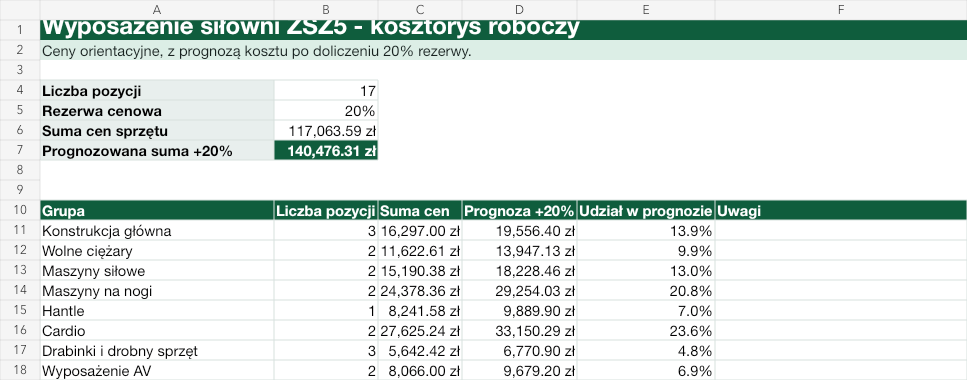
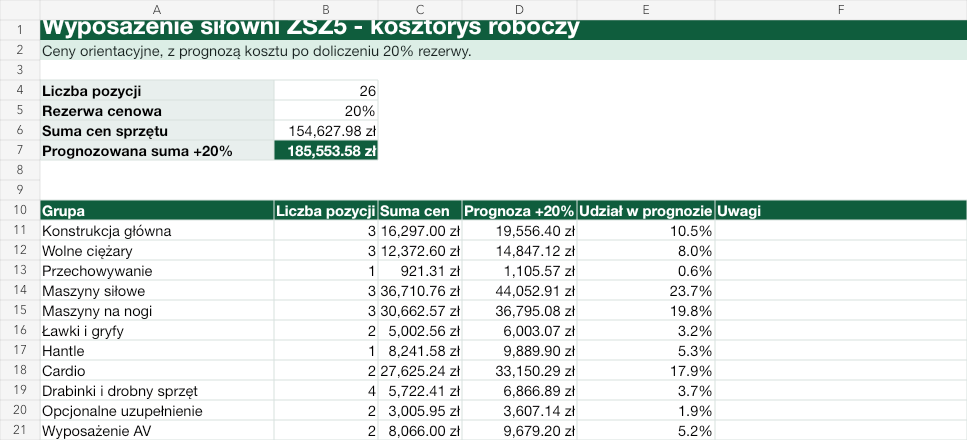
Add gym accessories and expand rehab equipment

Changed region(s): [[0.0, 0.0289, 1.0, 1.0], [0.6825, 0.6947, 0.7446, 1.0]]

diff --git a/script.js b/script.js
@@ -48,12 +48,34 @@ const equipment = [
     category: "silownia",
     section: "Siłownia",
     group: "Wolne ciężary",
+    name: "Obciążenie olimpijskie Fractional Competition PROUD 0,5-2,5 kg",
+    quantity: "1 zestaw",
+    priceRaw: 749.99,
+    source: "Training Showroom",
+    url: "https://trainingshowroom.com/talerze/2335-zestaw-obciazen-olimpijskich-proud-competition-fractional-plate.html",
+    image: "assets/images/gym-pro/gym-fractional-plates.jpg",
+  },
+  {
+    category: "silownia",
+    section: "Siłownia",
+    group: "Wolne ciężary",
     name: "Osłona na gryf PROUD Barbell Pad",
     quantity: "1",
     priceRaw: 62.61,
     source: "Training Showroom",
     url: "https://trainingshowroom.com/akcesoria/2488-ochraniacz-na-gryf-proud-barbell-pad.html",
     image: "assets/images/gym-pro/gym-bar-pad.jpg",
+  },
+  {
+    category: "silownia",
+    section: "Siłownia",
+    group: "Przechowywanie",
+    name: "Stojak na obciążenia i gryfy olimpijskie PROUD",
+    quantity: "1",
+    priceRaw: 921.31,
+    source: "Training Showroom",
+    url: "https://trainingshowroom.com/outlet/2373-stojak-na-obciazenia-i-gryfy-olimpijskie-proud.html",
+    image: "assets/images/gym-pro/gym-plate-bar-rack.jpg",
   },
   {
     category: "silownia",
@@ -80,6 +102,17 @@ const equipment = [
   {
     category: "silownia",
     section: "Siłownia",
+    group: "Maszyny siłowe",
+    name: "Wyciąg regulowany Dual Pulley PROUD Champion",
+    quantity: "1",
+    priceRaw: 21520.38,
+    source: "Training Showroom, do potwierdzenia pod kątem miejsca w sali",
+    url: "https://trainingshowroom.com/maszyny-silowe/2906-wyciag-regulowany-dual-pulley-proud-champion.html",
+    image: "assets/images/gym-pro/gym-dual-pulley.jpg",
+  },
+  {
+    category: "silownia",
+    section: "Siłownia",
     group: "Maszyny na nogi",
     name: "Maszyna do przysiadów Hack PROUD Champion",
     quantity: "1",
@@ -98,6 +131,39 @@ const equipment = [
     source: "Training Showroom",
     url: "https://trainingshowroom.com/maszyny-na-wolny-ciezar/3404-maszyna-seated-leg-extension-plate-loaded-proud-champion.html",
     image: "assets/images/gym-pro/gym-leg-extension.png",
+  },
+  {
+    category: "silownia",
+    section: "Siłownia",
+    group: "Maszyny na nogi",
+    name: "Maszyna do treningu łydek PROUD Champion",
+    quantity: "1",
+    priceRaw: 6284.21,
+    source: "Training Showroom",
+    url: "https://trainingshowroom.com/maszyny-silowe/2938-maszyna-do-lydek-proud-champion.html",
+    image: "assets/images/gym-pro/gym-calf-machine.jpg",
+  },
+  {
+    category: "silownia",
+    section: "Siłownia",
+    group: "Ławki i gryfy",
+    name: "Modlitewnik PROUD Champion",
+    quantity: "1",
+    priceRaw: 4502.57,
+    source: "Training Showroom",
+    url: "https://trainingshowroom.com/champion/2970-modlitewnik-proud-champion.html?search_query=Modlitewnik",
+    image: "assets/images/gym-pro/gym-preacher-curl.jpg",
+  },
+  {
+    category: "silownia",
+    section: "Siłownia",
+    group: "Ławki i gryfy",
+    name: "Gryf olimpijski treningowy łamany Curl Silver PROUD",
+    quantity: "1",
+    priceRaw: 499.99,
+    source: "Training Showroom",
+    url: "https://trainingshowroom.com/sztangi/2596-gryf-olimpijski-treningowy-lamany-silver-proud.html",
+    image: "assets/images/gym-pro/gym-ez-bar.jpg",
   },
   {
     category: "silownia",
@@ -173,6 +239,40 @@ const equipment = [
   {
     category: "silownia",
     section: "Siłownia",
+    group: "Drabinki i drobny sprzęt",
+    name: "Podkładki do przysiadów PROUD",
+    quantity: "1 komplet",
+    priceRaw: 79.99,
+    source: "Training Showroom",
+    url: "https://trainingshowroom.com/gumy-i-rollery/3356-podkladki-do-przysiadow-proud.html",
+    image: "assets/images/gym-pro/gym-squat-wedges.jpg",
+  },
+  {
+    category: "silownia",
+    section: "Siłownia",
+    group: "Opcjonalne uzupełnienie",
+    name: "Kettlebell żeliwny PRO, zestaw PROUD",
+    quantity: "1 zestaw",
+    priceRaw: 2625.99,
+    source: "Training Showroom, opcjonalnie",
+    url: "https://trainingshowroom.com/hantle-i-kettlebells/3465-hantla-proud-kettlebell-zestaw.html",
+    image: "assets/images/gym-pro/gym-kettlebell-set.jpg",
+  },
+  {
+    category: "silownia",
+    section: "Siłownia",
+    group: "Opcjonalne uzupełnienie",
+    name: "Podłoga gumowa Standard PROUD pod kettlebell",
+    quantity: "4 szt.",
+    priceRaw: 379.96,
+    unitNote: "94,99 zł za szt.",
+    source: "Training Showroom, opcjonalnie",
+    url: "https://trainingshowroom.com/podlogi/3427-podloga-gumowa-standard-proud.html",
+    image: "assets/images/gym-pro/gym-rubber-tile.jpg",
+  },
+  {
+    category: "silownia",
+    section: "Siłownia",
     group: "Wyposażenie AV",
     name: "Projektor Full HD Epson EB-FH52",
     quantity: "1",
@@ -197,8 +297,8 @@ const equipment = [
     section: "Sala korekcyjna",
     group: "Maty i materace",
     name: "Materace",
-    quantity: "16",
-    priceRaw: 3200,
+    quantity: "20",
+    priceRaw: 4000,
     source: "SportPlus",
     url: "https://sportplus.pl",
     image: "assets/images/equipment/exercise-mat.jpg",
@@ -230,8 +330,8 @@ const equipment = [
     section: "Sala korekcyjna",
     group: "Piłki i równowaga",
     name: "Piłki rehabilitacyjne",
-    quantity: "12",
-    priceRaw: 900,
+    quantity: "20",
+    priceRaw: 1500,
     source: "HMS",
     url: "https://hms-fitness.pl/produkt/yb01-new-65cm-pilka-gimnastyczna-hms",
     image: "assets/images/equipment/therapy-ball.jpg",
@@ -252,8 +352,8 @@ const equipment = [
     section: "Sala korekcyjna",
     group: "Rollery i sensoryka",
     name: "Rollery",
-    quantity: "10",
-    priceRaw: 700,
+    quantity: "20",
+    priceRaw: 1400,
     source: "4FIZJO",
     url: "https://4fizjo.pl",
     image: "assets/images/equipment/roller.webp",
@@ -263,8 +363,8 @@ const equipment = [
     section: "Sala korekcyjna",
     group: "Rollery i sensoryka",
     name: "Wałki rehabilitacyjne",
-    quantity: "8",
-    priceRaw: 800,
+    quantity: "20",
+    priceRaw: 2000,
     source: "Dostawca do wyboru",
     url: "",
     image: "assets/images/equipment/rehab-roller.webp",
@@ -274,8 +374,8 @@ const equipment = [
     section: "Sala korekcyjna",
     group: "Rollery i sensoryka",
     name: "Dyski sensoryczne",
-    quantity: "10",
-    priceRaw: 700,
+    quantity: "20",
+    priceRaw: 1400,
     source: "Dostawca do wyboru",
     url: "",
     image: "assets/images/equipment/sensory-disc.webp",
@@ -296,8 +396,8 @@ const equipment = [
     section: "Sala korekcyjna",
     group: "Drobny sprzęt korekcyjny",
     name: "Laski gimnastyczne",
-    quantity: "15",
-    priceRaw: 500,
+    quantity: "20",
+    priceRaw: 700,
     source: "Dostawca do wyboru",
     url: "",
     image: "assets/images/equipment/gym-stick.webp",
@@ -318,8 +418,8 @@ const equipment = [
     section: "Sala korekcyjna",
     group: "Drobny sprzęt korekcyjny",
     name: "Pasy do rozciągania",
-    quantity: "15",
-    priceRaw: 600,
+    quantity: "20",
+    priceRaw: 800,
     source: "Dostawca do wyboru",
     url: "",
     image: "assets/images/equipment/stretch-strap.png",
@@ -329,8 +429,8 @@ const equipment = [
     section: "Sala korekcyjna",
     group: "Drobny sprzęt korekcyjny",
     name: "Stepy",
-    quantity: "10",
-    priceRaw: 1000,
+    quantity: "20",
+    priceRaw: 2000,
     source: "Dostawca do wyboru",
     url: "",
     image: "assets/images/equipment/step.jpg",

diff --git a/index.html b/index.html
@@ -45,7 +45,7 @@
       <section class="summary" aria-label="Podsumowanie założeń">
         <article>
           <span>Wyposażenie siłowni</span>
-          <strong>17 pozycji</strong>
+          <strong>26 pozycji</strong>
         </article>
         <article>
           <span>Sala korekcyjna</span>
@@ -53,11 +53,11 @@
         </article>
         <article>
           <span>Razem ceny</span>
-          <strong>157 029,59 zł</strong>
+          <strong>199 993,98 zł</strong>
         </article>
         <article>
           <span>Razem prognoza +20%</span>
-          <strong>188 435,51 zł</strong>
+          <strong>239 992,78 zł</strong>
         </article>
       </section>
 
@@ -65,12 +65,12 @@
         <a class="page-card" href="silownia.html">
           <span>Osobna strona</span>
           <strong>Wyposażenie siłowni</strong>
-          <p>Maszyny siłowe, wolne ciężary, cardio, drabinki, drobny sprzęt, projektor i zestaw audio.</p>
+          <p>Maszyny siłowe, wolne ciężary, cardio, drabinki, poręcze, drążki, drobny sprzęt, projektor i audio.</p>
         </a>
         <a class="page-card" href="sala-gimnastyki.html">
           <span>Osobna strona</span>
           <strong>Sala gimnastyki korekcyjnej</strong>
-          <p>Materace, maty, drabinki, piłki, BOSU, rollery, drobny sprzęt korekcyjny, projektor i audio.</p>
+          <p>Materace, maty i sprzęt osobisty dobrany pod 20 użytkowników jednocześnie, drabinki, projektor i audio.</p>
         </a>
       </section>
 
@@ -88,7 +88,7 @@
             <div>
               <span class="cost-label">Część 1</span>
               <h3>Wyposażenie siłowni</h3>
-              <p>Sprzęt oparty na ofercie Training Showroom, uzupełniony o projektor i mobilny zestaw audio.</p>
+              <p>Sprzęt oparty na ofercie Training Showroom, uzupełniony o projektor, audio, drobny sprzęt techniczny i akcesoria.</p>
             </div>
             <div id="gymEstimateTotals" class="estimate-totals"></div>
           </div>
@@ -113,7 +113,7 @@
             <div>
               <span class="cost-label">Część 2</span>
               <h3>Wyposażenie sali gimnastyki korekcyjnej</h3>
-              <p>Rozbudowana sala korekcyjna z większą liczbą drabinek, sprzętem do ćwiczeń i wyposażeniem AV.</p>
+              <p>Rozbudowana sala korekcyjna z większą liczbą drabinek, wyposażeniem AV i sprzętem osobistym pod 20 osób.</p>
             </div>
             <div id="rehabEstimateTotals" class="estimate-totals"></div>
           </div>

diff --git a/silownia.html b/silownia.html
@@ -30,7 +30,7 @@
           <p class="kicker">Siłownia, ok. 40 m²</p>
           <h1>Wyposażenie siłowni</h1>
           <p class="lead">
-            Zestaw maszyn, wolnych ciężarów, cardio, drabinek, drobnego sprzętu oraz wyposażenia audio-wideo.
+            Zestaw maszyn, wolnych ciężarów, cardio, drabinek, poręczy, drążków, drobnego sprzętu oraz wyposażenia audio-wideo.
           </p>
           <div class="hero-actions">
             <a class="button primary" href="#kosztorys">Zobacz kosztorys</a>
@@ -49,15 +49,15 @@
         </article>
         <article>
           <span>Pozycji sprzętu</span>
-          <strong>17</strong>
+          <strong>26</strong>
         </article>
         <article>
           <span>Suma cen</span>
-          <strong>117 063,59 zł</strong>
+          <strong>154 627,98 zł</strong>
         </article>
         <article>
           <span>Prognoza +20%</span>
-          <strong>140 476,31 zł</strong>
+          <strong>185 553,58 zł</strong>
         </article>
       </section>
 
@@ -71,7 +71,7 @@
         <div class="estimate-head compact-estimate-head">
           <div>
             <span class="cost-label">Siłownia</span>
-            <h3>Sprzęt siłowy, cardio, drabinki i AV</h3>
+            <h3>Sprzęt siłowy, cardio, drabinki, drobny sprzęt i AV</h3>
           </div>
           <div id="gymEstimateTotals" class="estimate-totals"></div>
         </div>

diff --git a/sala-gimnastyki.html b/sala-gimnastyki.html
@@ -30,7 +30,7 @@
           <p class="kicker">Sala gimnastyki korekcyjnej, ok. 40 m²</p>
           <h1>Sala gimnastyki korekcyjnej</h1>
           <p class="lead">
-            Rozbudowana lista sprzętu korekcyjnego, drabinek, materacy, drobnych akcesoriów oraz wyposażenia AV.
+            Rozbudowana lista sprzętu korekcyjnego, drabinek, materacy i sprzętu osobistego pod 20 osób jednocześnie.
           </p>
           <div class="hero-actions">
             <a class="button primary" href="#kosztorys">Zobacz kosztorys</a>
@@ -53,11 +53,11 @@
         </article>
         <article>
           <span>Suma cen</span>
-          <strong>39 966 zł</strong>
+          <strong>45 366 zł</strong>
         </article>
         <article>
           <span>Prognoza +20%</span>
-          <strong>47 959,20 zł</strong>
+          <strong>54 439,20 zł</strong>
         </article>
       </section>
 
@@ -71,7 +71,7 @@
         <div class="estimate-head compact-estimate-head">
           <div>
             <span class="cost-label">Sala korekcyjna</span>
-            <h3>Drabinki, materace, sprzęt korekcyjny i AV</h3>
+            <h3>Drabinki, materace, sprzęt osobisty dla 20 osób i AV</h3>
           </div>
           <div id="rehabEstimateTotals" class="estimate-totals"></div>
         </div>

diff --git a/assets/images/equipment/SOURCES.md b/assets/images/equipment/SOURCES.md
@@ -44,3 +44,12 @@ Zdjęcia w katalogu `assets/images/gym-pro/` pochodzą z kart produktów Trainin
 - Poręcze do drabinki PROUD Champion Outlet, https://trainingshowroom.com/outlet/3584-porecze-do-drabinki-proud-champion-outlet.html
 - Drabinka gimnastyczna PROUD, https://trainingshowroom.com/sprzet-gimnastyczny/2272-drabinka-gimnastyczna-proud.html
 - Drążek do podciągania do drabinki PROUD Champion Outlet, https://trainingshowroom.com/outlet/3585-drazek-do-podciagania-do-drabinki-proud-champion-outlet.html
+- Stojak na obciążenia i gryfy olimpijskie PROUD, https://trainingshowroom.com/outlet/2373-stojak-na-obciazenia-i-gryfy-olimpijskie-proud.html
+- Modlitewnik PROUD Champion, https://trainingshowroom.com/champion/2970-modlitewnik-proud-champion.html
+- Gryf olimpijski treningowy łamany Curl Silver PROUD, https://trainingshowroom.com/sztangi/2596-gryf-olimpijski-treningowy-lamany-silver-proud.html
+- Obciążenie olimpijskie Fractional Competition PROUD, https://trainingshowroom.com/talerze/2335-zestaw-obciazen-olimpijskich-proud-competition-fractional-plate.html
+- Podkładki do przysiadów PROUD, https://trainingshowroom.com/gumy-i-rollery/3356-podkladki-do-przysiadow-proud.html
+- Wyciąg regulowany Dual Pulley PROUD Champion, https://trainingshowroom.com/maszyny-silowe/2906-wyciag-regulowany-dual-pulley-proud-champion.html
+- Maszyna do treningu łydek PROUD Champion, https://trainingshowroom.com/maszyny-silowe/2938-maszyna-do-lydek-proud-champion.html
+- Kettlebell żeliwny PRO, zestaw PROUD, https://trainingshowroom.com/hantle-i-kettlebells/3465-hantla-proud-kettlebell-zestaw.html
+- Podłoga gumowa Standard PROUD, https://trainingshowroom.com/podlogi/3427-podloga-gumowa-standard-proud.html
